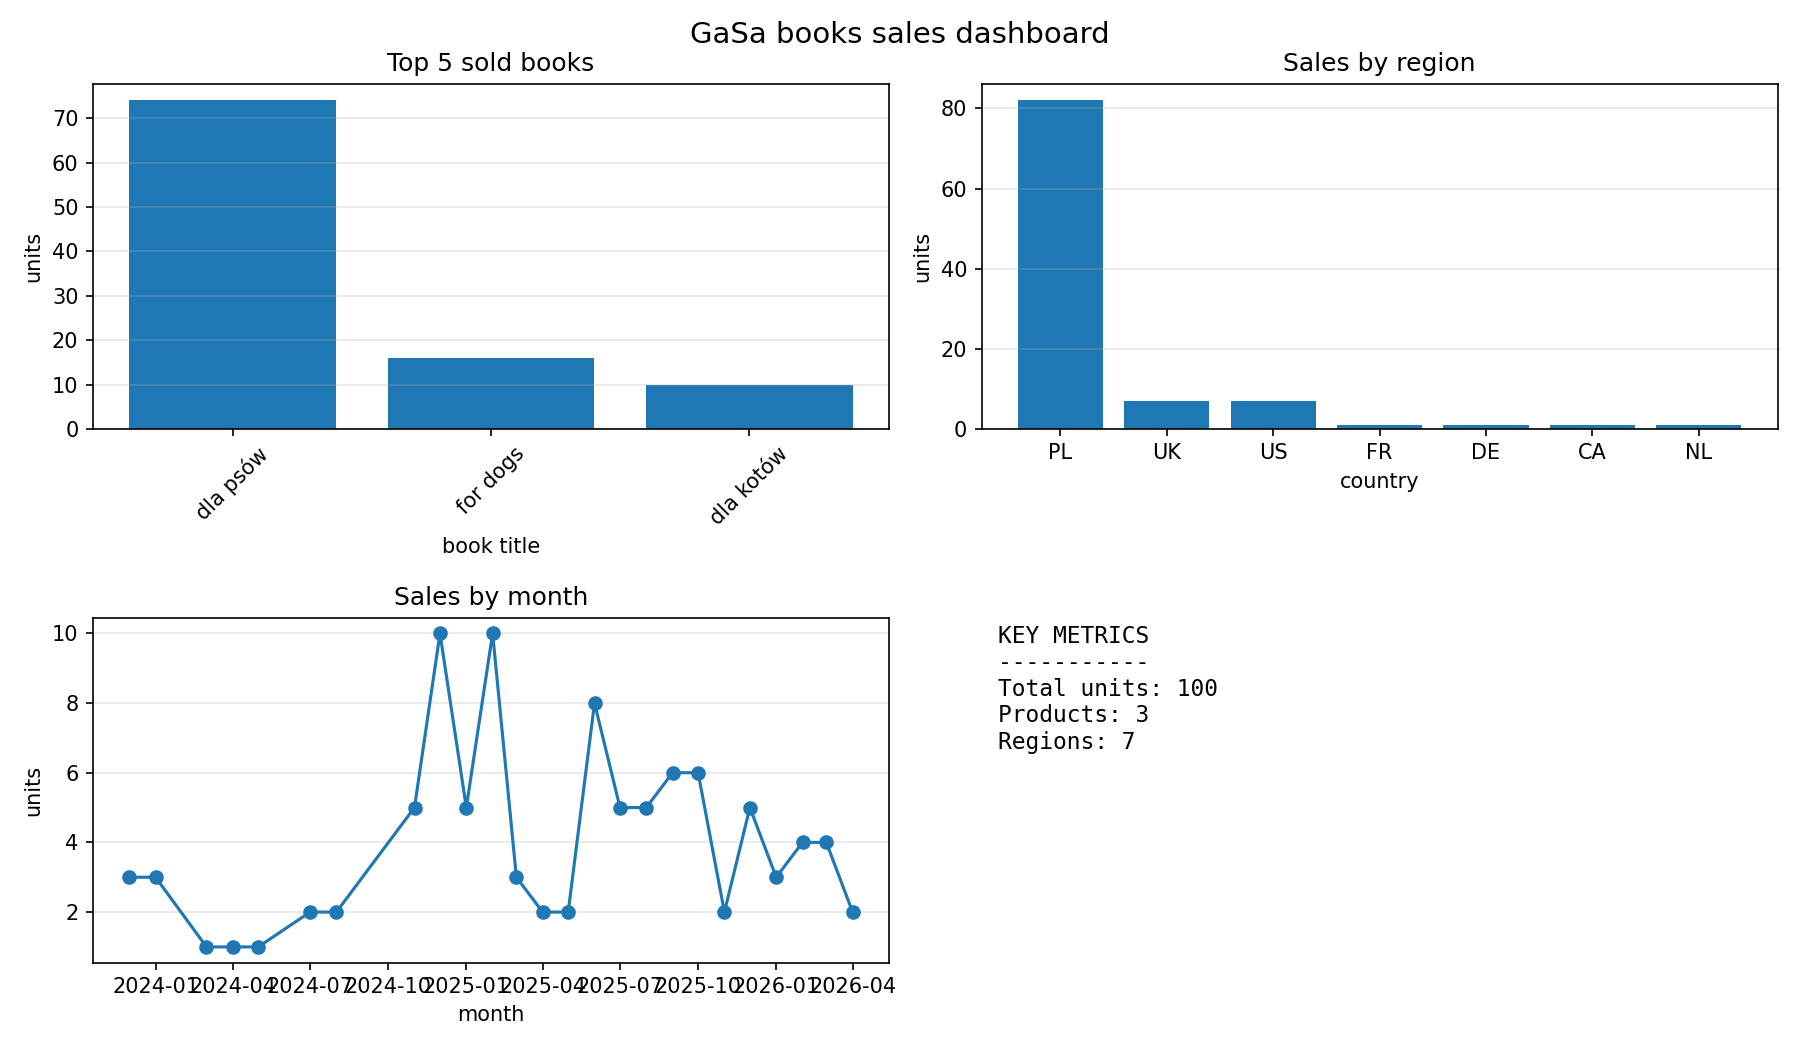
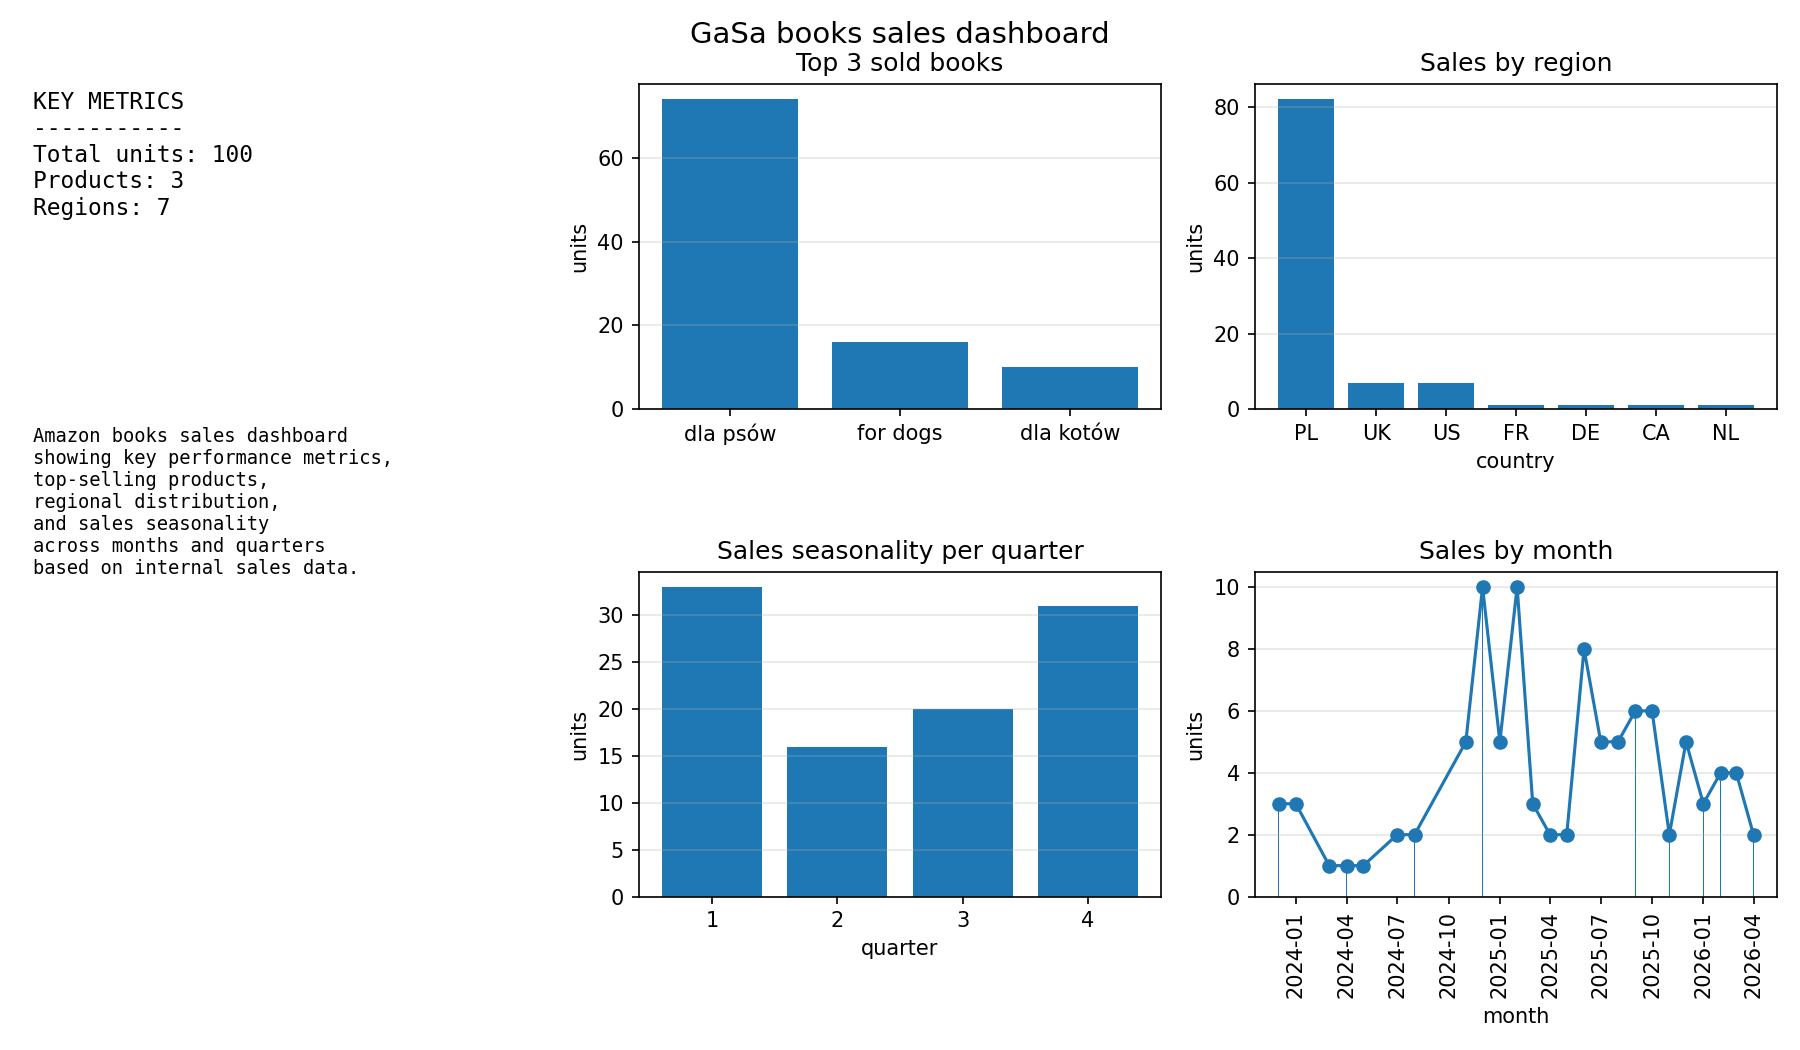
styles: improve visuialization

diff --git a/src/visualizer.py b/src/visualizer.py
@@ -17,43 +17,76 @@ def save_dashboard(
 ):
     top = df_by_product.nlargest(n_top, "units_sum").copy()
 
-    fig, axs = plt.subplots(2,2, figsize=(12,7))
+    fig, axs = plt.subplots(2, 3, figsize=(12,7))
 
-    axs[0, 0].bar(top["shorttitle"], top["units_sum"])
-    axs[0, 0].set_title(f"Top {n_top} sold books")
-    axs[0, 0].set_xlabel("book title")
-    axs[0, 0].set_ylabel("units")
-    axs[0, 0].tick_params(axis="x", rotation=45)
-    axs[0, 0].grid(axis="y", alpha=0.3)
+    axs[0, 0].axis("off")
 
-    axs[0, 1].bar(df_by_region["region"], df_by_region["units_sum"])
-    axs[0, 1].set_title(f"Sales by region")
-    axs[0, 1].set_xlabel("country")
-    axs[0, 1].set_ylabel("units")
-    axs[0, 1].grid(axis="y", alpha=0.3)
-
-    axs[1, 0].plot(df_by_month["month"], df_by_month["units_sum"], marker="o")
-    axs[1, 0].set_title(f"Sales by month")
-    axs[1, 0].set_xlabel("month")
-    axs[1, 0].set_ylabel("units")
-    axs[1, 0].grid(axis="y", alpha=0.3)
-
-    axs[1, 1].axis("off")
-
-    lines = [
+    kpi_lines = [
         "KEY METRICS",
         "-----------",
         f"Total units: {kpis.get("total_units", 0):,}",
         f"Products: {kpis.get("distinct_products", 0)}",
         f"Regions: {kpis.get("distinct_regions", 0)}",
     ]
-    text_block = "\n".join(lines)
+    kpi_text_block = "\n".join(kpi_lines)
 
-    axs[1, 1].text(
-        0.02, 0.98, text_block,
+    axs[0, 0].text(
+        0.02, 0.98, kpi_text_block,
         va="top", ha="left",
         fontsize=11, family="Monospace"
     )
+
+
+
+    
+
+    # axs[1, 0].text(0.02, 0.98, "This dashboard analyzes Amazon book sales data from my seller account, showing key KPIs, top-performing titles, regional performance, and time-based trends. A clear seasonal pattern emerges, with the strongest sales occurring in Q1 and Q4, indicating increased demand during these periods.")
+    axs[1, 0].axis("off")
+
+    report_lines = [
+        "Amazon books sales dashboard",
+        "showing key performance metrics,",
+        "top-selling products,",
+        "regional distribution,",
+        "and sales seasonality ",
+        "across months and quarters",
+        "based on internal sales data.",
+    ]
+    report_text_block = "\n".join(report_lines)
+
+    axs[1, 0].text(
+        0.02, 0.98, report_text_block,
+        va="top", ha="left",
+        fontsize=9, family="Monospace"
+    )
+
+
+
+    axs[0, 1].bar(top["shorttitle"], top["units_sum"])
+    axs[0, 1].set_title(f"Top {n_top} sold books")
+    axs[0, 1].set_ylabel("units")
+    axs[0, 1].tick_params(axis="x")
+    axs[0, 1].grid(axis="y", alpha=0.3)
+
+    axs[0, 2].bar(df_by_region["region"], df_by_region["units_sum"])
+    axs[0, 2].set_title(f"Sales by region")
+    axs[0, 2].set_xlabel("country")
+    axs[0, 2].set_ylabel("units")
+    axs[0, 2].grid(axis="y", alpha=0.3)
+
+    axs[1, 1].bar(df_by_quarter["quarter"], df_by_quarter["units_sum"])
+    axs[1, 1].set_title(f"Sales seasonality per quarter")
+    axs[1, 1].set_xlabel("quarter")
+    axs[1, 1].set_ylabel("units")
+    axs[1, 1].grid(axis="y", alpha=0.3)
+
+    axs[1, 2].plot(df_by_month["month"], df_by_month["units_sum"], marker="o")
+    axs[1, 2].bar(df_by_month["month"], df_by_month["units_sum"])
+    axs[1, 2].set_title(f"Sales by month")
+    axs[1, 2].set_xlabel("month")
+    axs[1, 2].set_ylabel("units")
+    axs[1, 2].tick_params(axis="x", rotation=90)
+    axs[1, 2].grid(axis="y", alpha=0.3)
 
     fig.suptitle("GaSa books sales dashboard", fontsize=14, y=0.98)
     plt.tight_layout()
@@ -65,6 +98,6 @@ def save_dashboard(
 
     plt.close(fig)
 
-    print("VIZ:", df_by_quarter)
+    print("by month:", df_by_month)
     return out_path
 

diff --git a/src/main.py b/src/main.py
@@ -34,7 +34,7 @@ out = viz.save_dashboard(
     df_by_month=by_month,
     df_by_quarter=by_q,
     kpis=kpis,
-    n_top=5,
+    n_top=3,
     out_dir="reports/figures",
     filename="dashboard.png"
 )
